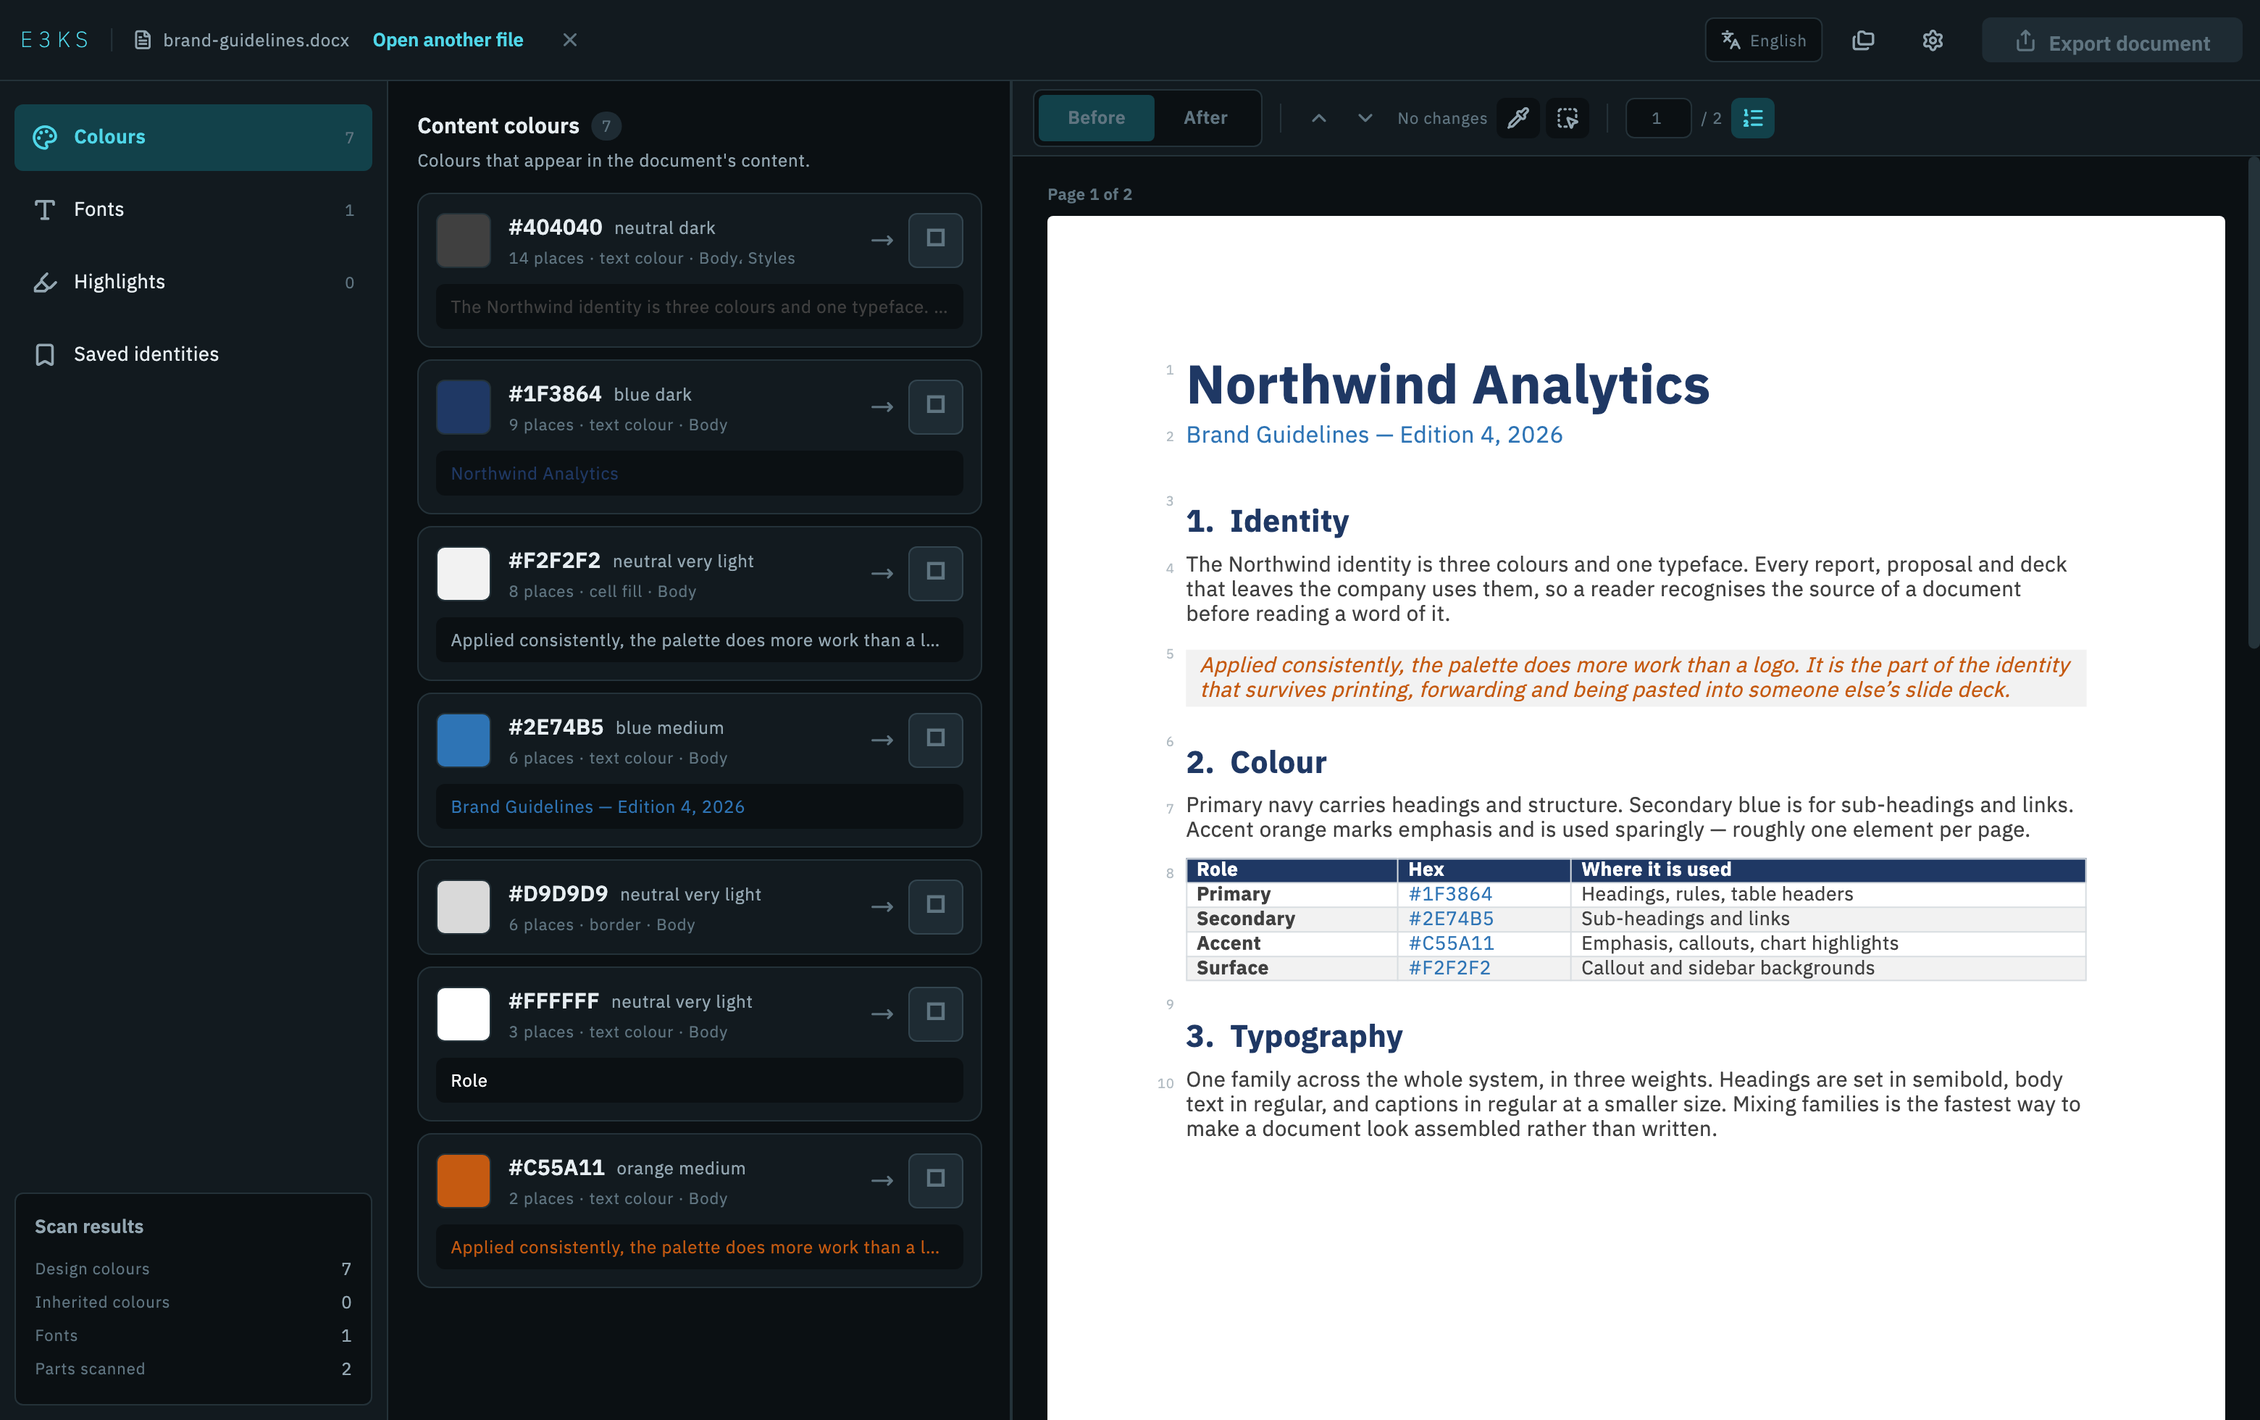
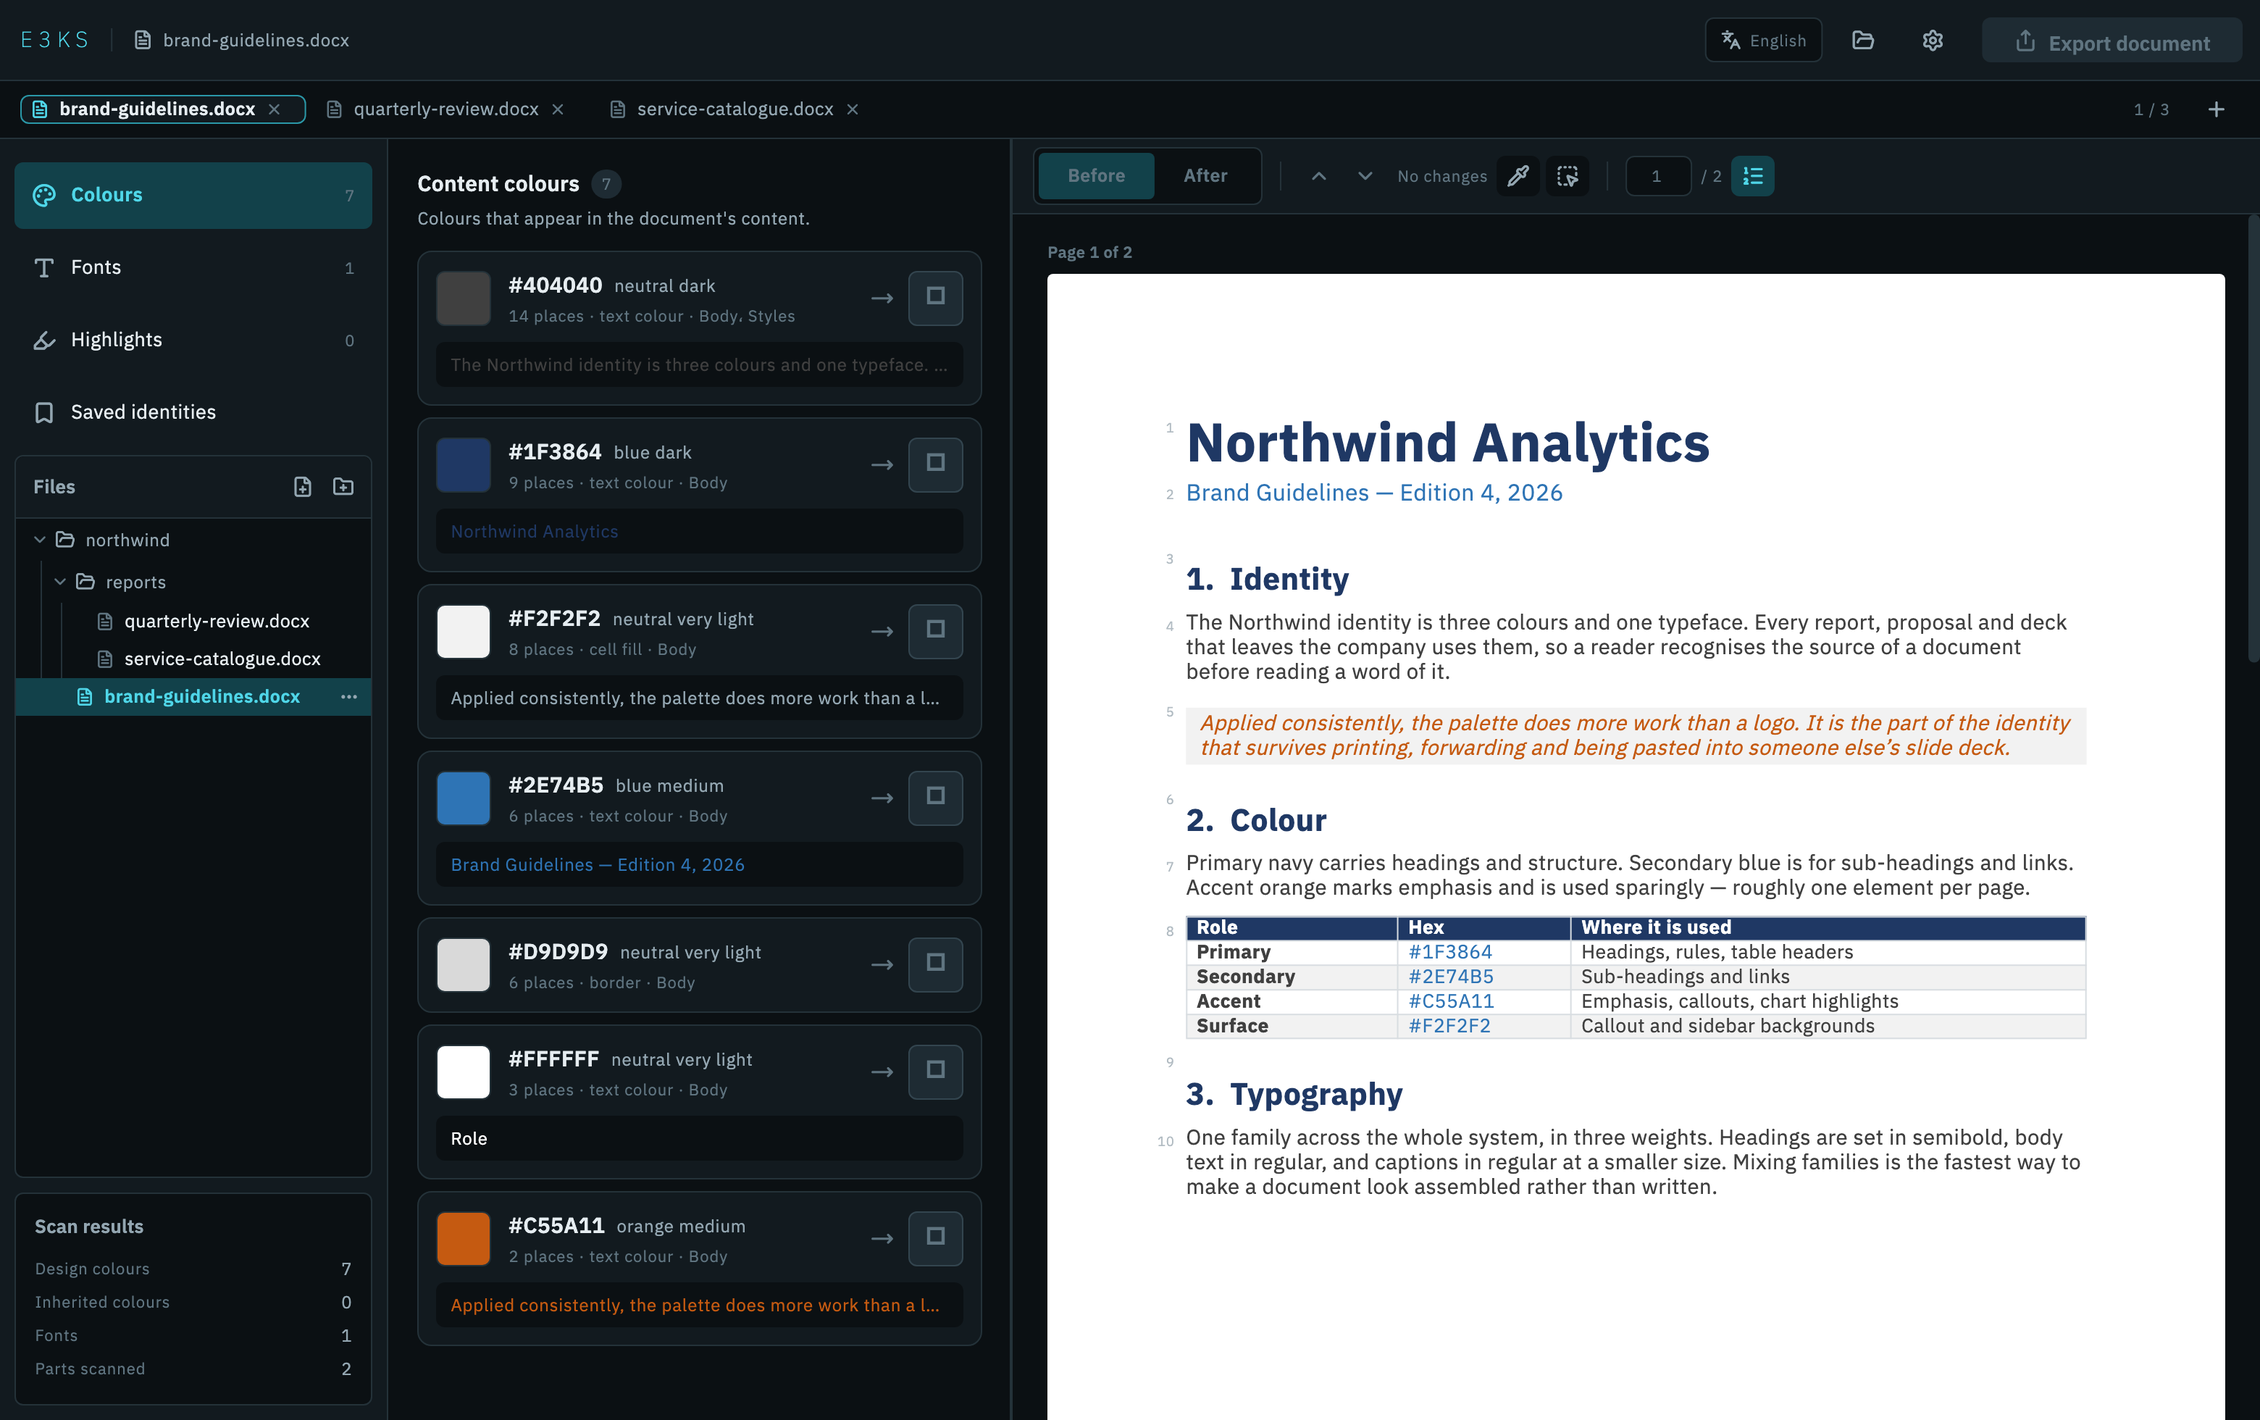
feat(docs): update README for version 0.2.0 and enhance screenshot descriptions

diff --git a/apps/e3ks_desktop/tool/capture_screenshots.dart b/apps/e3ks_desktop/tool/capture_screenshots.dart
@@ -6,8 +6,11 @@
 /// flutter test tool/capture_screenshots.dart
 /// ```
 ///
-/// يرسم الواجهة الإنجليزية بخطّها المضمَّن على مستند العرض في
-/// `docs/demo/`، ويكتب الصور في `docs/screenshots/`.
+/// يرسم الواجهة الإنجليزية بخطّها المضمَّن على مستند العرض في `docs/demo/`،
+/// ويكتب الصور في `docs/screenshots/`.
+///
+/// **والمشهد مجموعةٌ لا ملفًّا واحدًا**: صورةٌ بملفٍّ واحد لا تُظهر ما يفصل
+/// هذا التطبيق عن غيره — طبقتَي الخطّة، والشجرة، والمراجعة قبل الكتابة.
 library;
 
 import 'dart:convert';
@@ -17,29 +20,35 @@ import 'dart:ui' as ui;
 import 'package:e3ks_desktop/app/theme.dart';
 import 'package:e3ks_desktop/data/font_cache.dart';
 import 'package:e3ks_desktop/data/font_service.dart';
+import 'package:e3ks_desktop/data/identity.dart';
 import 'package:e3ks_desktop/data/identity_store.dart';
 import 'package:e3ks_desktop/data/settings_store.dart';
 import 'package:e3ks_desktop/data/workspace_store.dart';
-import 'package:e3ks_desktop/data/identity.dart';
-import 'package:e3ks_desktop/features/mapping/colors_panel.dart';
+import 'package:e3ks_desktop/features/export/export_set_sheet.dart';
 import 'package:e3ks_desktop/features/workspace/workspace_screen.dart';
 import 'package:e3ks_desktop/l10n/app_localizations.dart';
-import 'package:e3ks_desktop/shared/widgets/swatch.dart';
 import 'package:e3ks_engine/e3ks_engine.dart';
 import 'package:flutter/material.dart';
 import 'package:flutter/rendering.dart';
 import 'package:flutter/services.dart';
 import 'package:flutter_localizations/flutter_localizations.dart';
 import 'package:flutter_test/flutter_test.dart';
-import 'package:lucide_icons_flutter/lucide_icons.dart';
 
 const _demo = '../../docs/demo/brand-guidelines.docx';
 const _outputDir = '../../docs/screenshots';
 const _size = Size(1560, 980);
 
+/// المجموعة في اللقطات: مستند العرض نفسه تحت مجلدٍ وفرعٍ منه، فتُرى البنية
+/// المحفوظة عند التصدير كما تُرى في الشجرة.
+const _set = [
+  'northwind/brand-guidelines.docx',
+  'northwind/reports/quarterly-review.docx',
+  'northwind/reports/service-catalogue.docx',
+];
+
 final _shot = GlobalKey();
 
-/// مخزن هويات مؤقّت فيه هويّتان — قائمة الخطط في حوار الدفعة تعرضهما.
+/// مخزن هويات مؤقّت فيه هويّتان — الاختيار السريع في منتقي البديل يعرضهما.
 late final IdentityStore _identities;
 
 Future<void> _seedIdentities() async {
@@ -77,10 +86,13 @@ Future<void> _seedIdentities() async {
 /// الهوية الجديدة المطبَّقة في اللقطات: من الكحلي إلى الأخضر المزرقّ.
 const _plan = {
   '#1F3864': '#0F3D3E',
-  '#2E74B5': '#2A9D8F',
   '#C55A11': '#E76F51',
   '#F2F2F2': '#EAF4F2',
 };
+
+/// استثناءٌ على القاعدة العامّة، فتُرى الطبقتان في صورة واحدة — وصفّه في
+/// إطار اللقطة، وإلّا لم يُرَ المربّع المؤشَّر الذي يقول إنه خاصّ.
+const _exception = MapEntry('#2E74B5', '#2A9D8F');
 
 /// `!` مضمون: القيم أعلاه مكتوبة بصيغة `#RRGGBB` صحيحة.
 HexColor _hex(String value) => HexColor.tryParse(value)!;
@@ -175,15 +187,21 @@ Future<void> _write(WidgetTester tester, String name) async {
   stdout.writeln('  → $_outputDir/$name');
 }
 
-Future<WorkspaceStore> _open(WidgetTester tester) async {
-  final store = WorkspaceStore();
-  await tester.runAsync(
-    () => store.open(
-      _demo,
-      'brand-guidelines.docx',
-      Uint8List.fromList(File(_demo).readAsBytesSync()),
-    ),
-  );
+/// ينسخ مستند العرض في مجلدٍ مؤقّت بمواضع [_set]، ويفتح المجموعة منه.
+Future<WorkspaceStore> _openSet(WidgetTester tester) async {
+  final bytes = Uint8List.fromList(File(_demo).readAsBytesSync());
+  final work = Directory.systemTemp.createTempSync('e3ks_shots_');
+  final store = WorkspaceStore()..addDirectory('${work.path}/northwind');
+
+  for (final relative in _set) {
+    final file = File('${work.path}/$relative');
+    file.parent.createSync(recursive: true);
+    file.writeAsBytesSync(bytes);
+    await tester.runAsync(
+      () => store.open(file.path, relative.split('/').last, bytes),
+    );
+  }
+  store.selectDocument(0);
   return store;
 }
 
@@ -197,34 +215,35 @@ void main() {
     await tester.binding.setSurfaceSize(_size);
     addTearDown(() => tester.binding.setSurfaceSize(null));
 
-    final store = await _open(tester);
-    expect(store.hasDocument, isTrue, reason: 'مستند العرض لم يُفتح');
+    final store = await _openSet(tester);
+    expect(store.files, hasLength(_set.length), reason: 'المجموعة لم تُفتح');
 
     await tester.pumpWidget(_harness(store));
     await tester.pumpAndSettle();
     await _write(tester, '01-workspace.png');
 
     // منتقي البديل على لون الهوية الأساسي: سلَّم الدرجات والتباين.
-    final swatches = find.descendant(
-      of: find.byType(ColorsPanel),
-      matching: find.byType(Swatch),
-    );
-    await tester.tap(swatches.at(3));
+    await tester.tap(find.byTooltip('Pick a replacement colour').at(1));
     await tester.pumpAndSettle();
     await _write(tester, '02-picker.png');
     await tester.tap(find.text('Cancel'));
     await tester.pumpAndSettle();
 
-    // الهوية الجديدة مطبَّقة، والمعاينة على «بعد».
+    // الهوية الجديدة على المجموعة كلّها، ولونٌ واحد يبقى في هذا الملفّ وحده.
     for (final entry in _plan.entries) {
-      store.mapColor(_hex(entry.key), _hex(entry.value));
+      final from = _hex(entry.key);
+      store.mapColor(from, _hex(entry.value), store.scopeForColor(from));
     }
+    final accent = _hex(_exception.key);
+    store.mapColor(accent, _hex(_exception.value), store.scopeForColor(accent));
+    store.setColorScope(accent, EditScope.file);
+    store.setShowAfter(true);
     await tester.pumpAndSettle();
     await _write(tester, '03-after.png');
 
-    // الدفعة: خطة واحدة على مجلد كامل.
-    await tester.tap(find.byIcon(LucideIcons.folders));
+    // التصدير: كل ملفّ بموضعه من المخرَج، ولا كتابة قبل اختيار الوجهة.
+    showSetExport(tester.element(find.byType(WorkspaceScreen)), store);
     await tester.pumpAndSettle();
-    await _write(tester, '04-batch.png');
+    await _write(tester, '04-export.png');
   });
 }

diff --git a/README.md b/README.md
@@ -7,7 +7,7 @@
 <p align="center">Swap the colours and fonts of Word and PowerPoint documents.</p>
 
 <p align="center">
-  <img alt="Version 0.1.0" src="https://img.shields.io/badge/version-0.1.0-2A2F35">
+  <img alt="Version 0.2.0" src="https://img.shields.io/badge/version-0.2.0-2A2F35">
   <img alt="Flutter 3.47" src="https://img.shields.io/badge/Flutter-3.47-02569B?logo=flutter&logoColor=white">
   <img alt="Dart 3.9" src="https://img.shields.io/badge/Dart-3.9-0175C2?logo=dart&logoColor=white">
   <img alt="macOS, Windows and Linux" src="https://img.shields.io/badge/desktop-macOS%20%C2%B7%20Windows%20%C2%B7%20Linux-111111">
@@ -15,7 +15,7 @@
   <img alt="GPL-3.0" src="https://img.shields.io/badge/licence-GPL--3.0-4FD6E8">
 </p>
 
-![E3KS with a document open](docs/screenshots/01-workspace.png)
+![E3KS with a set of documents open](docs/screenshots/01-workspace.png)
 
 ## What it is
 
@@ -23,15 +23,23 @@ A company changes its brand colours. The Word and PowerPoint files it already
 has still carry the old ones, spread across body text, headings, tables,
 headers and footers, and the document theme.
 
-E3KS opens the file, lists every colour and font inside it, takes a
-replacement for each, shows the result page by page, and writes a new file.
+E3KS opens a file — or a folder and everything under it — lists every colour
+and font inside, takes a replacement for each, shows the result page by page,
+and writes new files.
 
 ## Features
 
+- **Working set** — open files, a folder and everything under it, or drop them
+  on the tree, which keeps the folder structure. A file can be marked reviewed,
+  noted, locked, or taken out.
+- **One plan, with exceptions** — a replacement applies to every file in the
+  set. **This file only** keeps a rule to the file at hand, and a locked file
+  takes none of the general plan.
 - **Colour list** — each colour with its occurrence count, what it is used for
   and a sample of its text. Colours that came from an Office template sit in
   their own list.
-- **Preview** — pages at their real size, with a before/after toggle.
+- **Preview** — pages and slides at their real size, with a before/after toggle
+  and a step through the changed spots.
 - **Eyedropper** — point at a colour on the page to select it. The app follows
   it through the document and offers computed shades of it.
 - **Highlights** — the highlighter pen and the background shading that Word's
@@ -39,13 +47,17 @@ replacement for each, shows the result page by page, and writes a new file.
   all of them, for the open file.
 - **Fonts** — Latin and Arabic are set separately. Monospaced fonts stay as
   they are. Fonts missing from the machine are fetched from Google Fonts and
-  cached.
+  cached, or added from a file on disk.
 - **Identities** — save a palette and apply it to any document, or lift one
   from another open file. A saved identity keeps the exact colour-to-colour
   rules, so the next document comes out like the last one.
-- **Batch** — apply one plan to a whole folder and everything under it, keeping
-  the structure. A file that fails is named with its reason and the rest still
-  run. Also on the command line: `e3ks restyle-dir`.
+- **Properties** — per file: format, size, last modified, page count and path;
+  what the plan will do to it and which parts the change reaches; and the
+  colours it leaves untouched.
+- **Export** — one file, or the whole set, keeping the structure. Every file is
+  named with the path it will take before anything is written. A file that
+  fails is named with its reason and the rest still run. Also on the command
+  line: `e3ks restyle-dir`.
 - **Two languages** — Arabic and English, with the layout direction following
   the language.
 
@@ -55,15 +67,16 @@ replacement for each, shows the result page by page, and writes a new file.
 
 ![The replacement colour dialog](docs/screenshots/02-picker.png)
 
-**After applying a new palette**
+**A new palette over the set, with one rule kept to a single file**
 
 ![The document with the new palette applied](docs/screenshots/03-after.png)
 
-**Applying one plan to a folder**
+**Exporting the set**
 
-![The batch dialog](docs/screenshots/04-batch.png)
+![The set export screen](docs/screenshots/04-export.png)
 
-The document in the screenshots is [`docs/demo/brand-guidelines.docx`](docs/demo/brand-guidelines.docx).
+The document in the screenshots is [`docs/demo/brand-guidelines.docx`](docs/demo/brand-guidelines.docx),
+opened three times under one folder to stand in for a set.
 
 ## Output
 
@@ -103,6 +116,7 @@ packages/e3ks_engine/     Engine: inspect, transform, preview, validate
   lib/src/format/         Everything specific to a file format
 apps/e3ks_desktop/        Flutter UI
 tools/e3ks_cli/           Command line over the engine
+tools/checks.sh           Every check in one command — what CI runs too
 docs/adr/                 Architecture decisions
 brand/                    The mark and its usage
 ```
@@ -116,6 +130,9 @@ cd packages/e3ks_engine && dart pub get && dart test
 # App — swap the device for your platform: macos, windows, linux
 cd apps/e3ks_desktop && flutter pub get && flutter run -d macos
 
+# Every check in one command — the same list CI runs
+./tools/checks.sh
+
 # Release build. Each platform is built on its own operating system;
 # CI builds all three for a release.
 cd apps/e3ks_desktop && flutter build macos --release
@@ -124,12 +141,12 @@ cd apps/e3ks_desktop && flutter build macos --release
 ./brand/build-appicon.sh
 ```
 
-96 engine tests and 152 app tests. Documentation and project rules are in
+112 engine tests and 204 app tests. Documentation and project rules are in
 Arabic; code is in English.
 
 ## Versioning
 
-Current version **0.1.0**. The number describes the output contract: a patch
+Current version **0.2.0**. The number describes the output contract: a patch
 release produces the same bytes for the same plan, a minor release adds a
 capability, and a major release changes what the engine writes or what a saved
 identity file looks like. 1.0 follows metadata support and a manual acceptance
@@ -152,7 +169,7 @@ warranty of merchantability or fitness for a particular purpose. Full text in
 
 | | Licence |
 |---|---|
-| **IBM Plex Sans Arabic** — bundled UI typeface | SIL Open Font License 1.1, text in [`apps/e3ks_desktop/assets/fonts/OFL.txt`](apps/e3ks_desktop/assets/fonts/OFL.txt) |
+| **IBM Plex Sans Arabic** — bundled UI typeface | SIL Open Font License 1.1, text in [`apps/e3ks_desktop/assets/fonts/OFL-IBMPlexSansArabic.txt`](apps/e3ks_desktop/assets/fonts/OFL-IBMPlexSansArabic.txt) |
 | **Lucide** — UI icons | ISC |
 | Dart and Flutter packages | Listed in the app under Settings → Licences |
 
